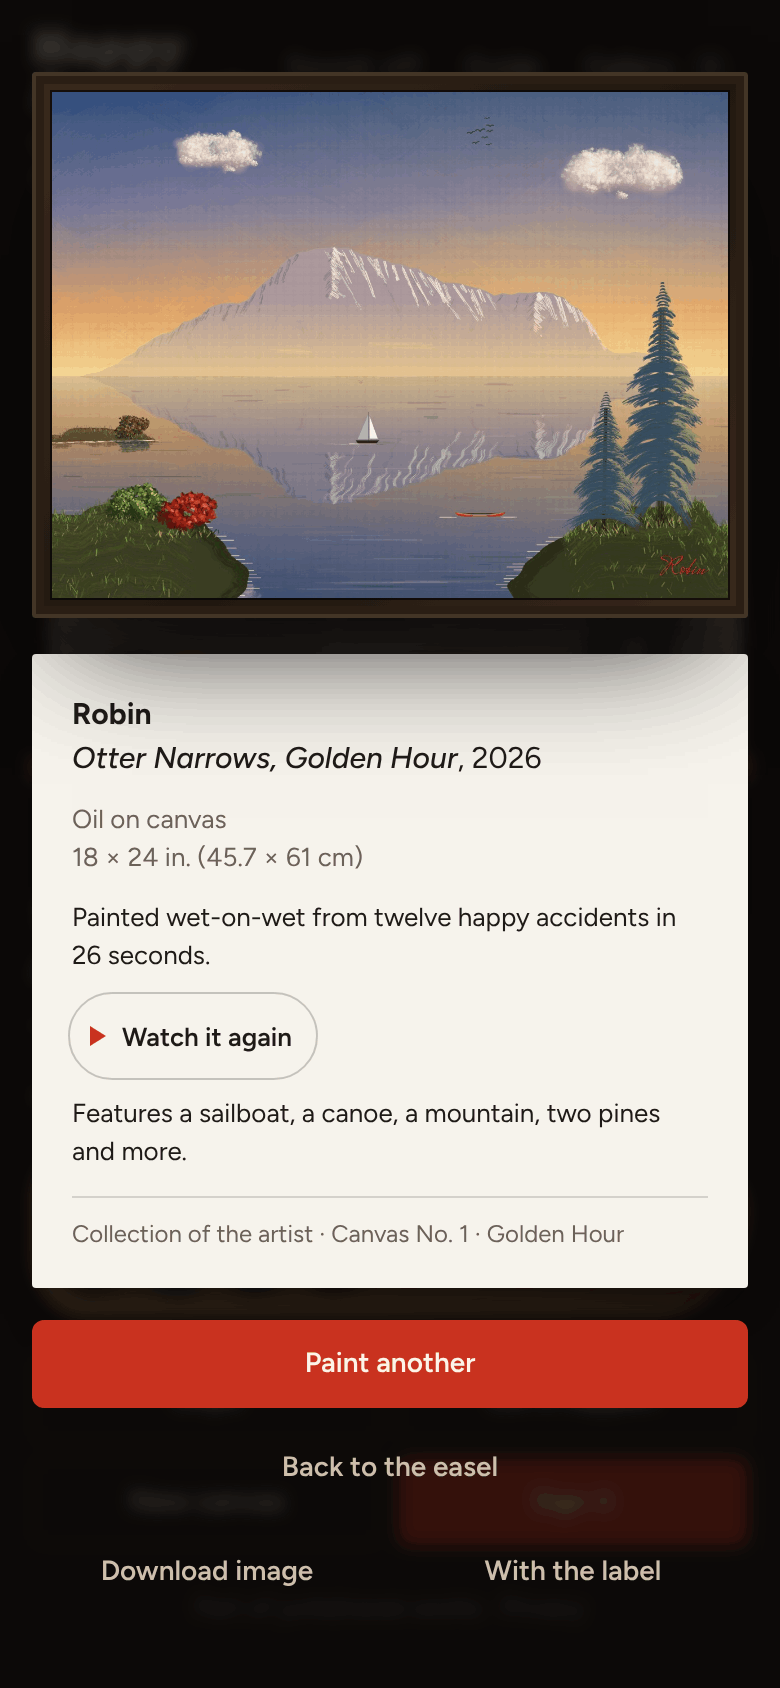
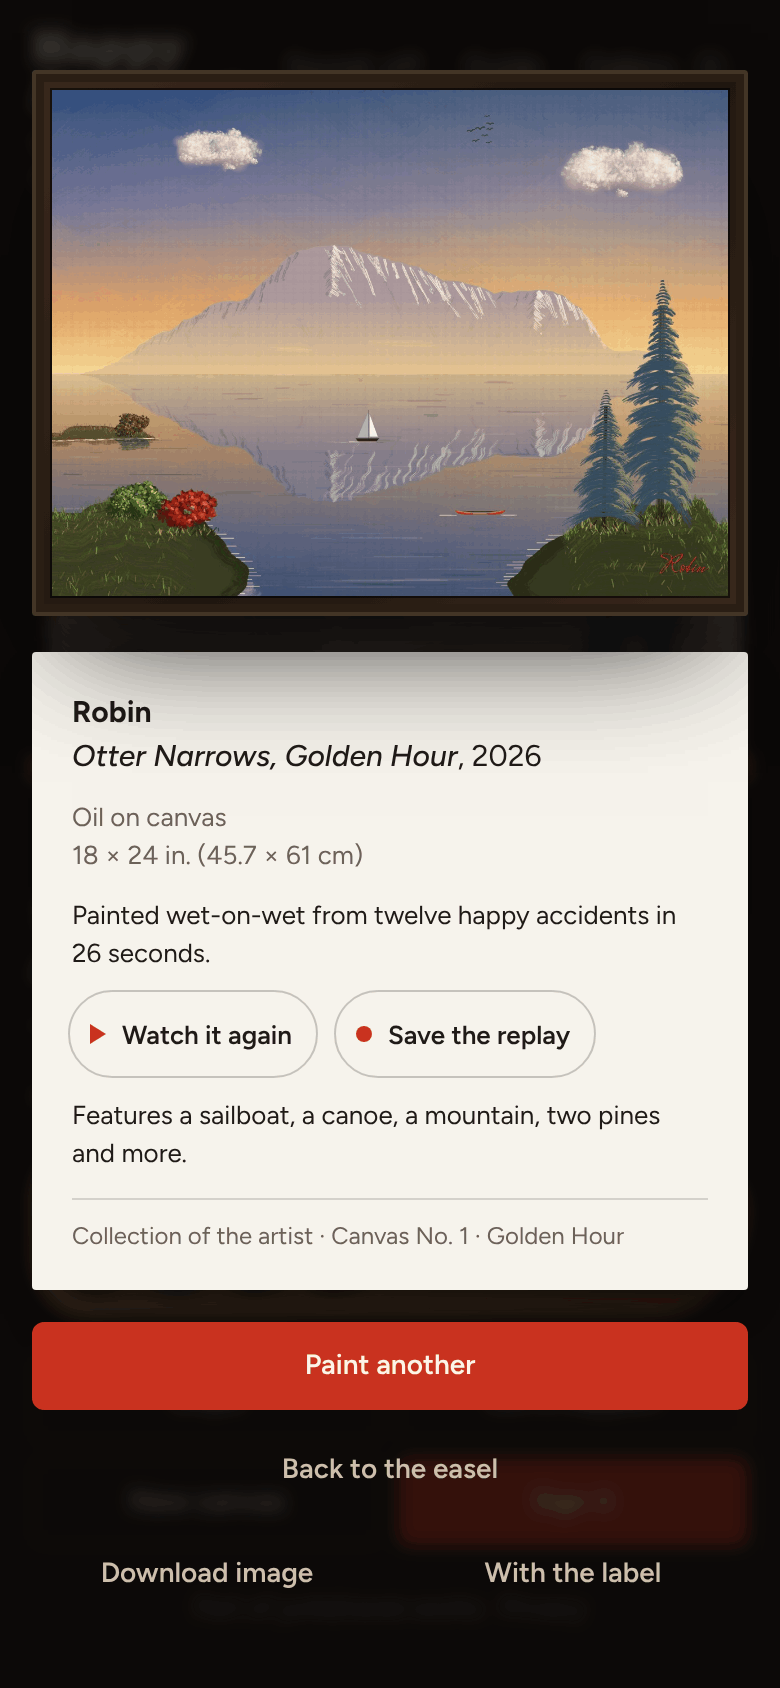
Add Save the replay: Watch it again as a short video to keep or send
Answers "Save the replay as a short video to share". Watch it again only played on the label, so there was no way to keep how a painting came about or send it to anyone. Now Save the replay sits beside it, in browsers that can record a canvas (MediaRecorder and canvas.captureStream; hidden where either is missing, and in a frame with no way to save a file). It plays the replay on the label and records it as it goes, a frame each time the screen is drawn, with the finished painting held a moment longer at the end: an MP4 where MediaRecorder.isTypeSupported says the browser can make one, a WebM where it can't. When it's done it downloads, named for the painting; on a phone or tablet that can share the file, the button becomes Save or share the video and a tap opens the share sheet (the browser only opens it for a tap it has just seen, and the video takes about ten seconds to make). A second press while it's being made, Stop, closing the label, New canvas or the page going out of sight stops it, keeps nothing, and stops and lets go of the recorder and the canvas's stream. The page test checks in Chromium that a second press and Stop leave nothing recording and save nothing, that a full run downloads one playable 560 by 420 MP4 of a few seconds named for the painting, that with sharing it waits for the tap and then shares that MP4, and that closing the label mid-way leaves nothing recording; blob links of the page's own no longer count as leaving the site. The README says so,
[…]

diff --git a/src/main.js b/src/main.js
@@ -5,7 +5,7 @@ import { pick, rand, gauss, slug } from './util.js';
 import * as sound from './sound.js';
 import { guardEdges } from './edge-guard.js';
 import { labelledPicture } from './label.js';
-import { play, FRAME_WIDTH } from './film.js';
+import { play, FRAME_WIDTH, videoType, videoExt, record } from './film.js';
 import { renderGuide, guideIntro, isKey } from './guide.js';
 
 const $ = (id) => document.getElementById(id);
@@ -50,9 +50,16 @@ const toolEl = $('tool');
 const hintEl = $('hint');
 const replayBtn = $('replayBtn');
 const filmCanvas = $('film');
+const videoBtn = $('videoBtn');
+// The kind of video Save the replay makes here, or null where the browser can't record the replay.
+const VIDEO = videoType();
 const calm = window.matchMedia('(prefers-reduced-motion: reduce)');
 // The replay playing on the label, if there is one (see Watch it again).
 let replay = null;
+// Save the replay's recording under way, a finished video waiting for its tap, and which go is the one going on now.
+let taping = null;
+let video = null;
+let videoTurn = 0;
 const inFrame = (() => {
   try {
     return window.self !== window.top;
@@ -679,6 +686,7 @@ const overlays = [$('signSheet'), $('placard'), $('gallery'), $('guide')];
 let returnFocus = null;
 function openOverlay(el, focusEl) {
   stopReplay();
+  dropVideo();
   returnFocus ??= document.activeElement;
   for (const o of overlays) o.hidden = o !== el;
   app.inert = true;
@@ -689,6 +697,7 @@ function openOverlay(el, focusEl) {
 }
 function closeOverlay(el, focusEl = returnFocus) {
   stopReplay();
+  dropVideo();
   el.hidden = true;
   app.inert = false;
   returnFocus = null;
@@ -883,6 +892,7 @@ function showPlacard(record, src, from = null, hung = null) {
   // Watch it again is on the label of the painting on the easel, signed just now (or opened again from Sign it with
   // nothing added), not on one opened from the wall.
   replayBtn.hidden = !(from !== 'wall' && studio.signed?.id === record.id && studio.film.frames.length > 1);
+  videoBtn.hidden = replayBtn.hidden || !VIDEO || (inFrame && !downloads);
   placardFrom = from === 'signing' && hung && !hung.kept ? 'unkept' : from;
   $('keepBtn').textContent = from === 'wall' ? 'Back to the wall' : 'Back to the easel';
   const img = $('placardImg');
@@ -972,28 +982,130 @@ function stopReplay() {
   filmCanvas.hidden = true;
   replayBtn.textContent = 'Watch it again';
   replayBtn.classList.remove('playing');
+  if (taping) dropVideo();
+}
+// Starts the replay on the label's frame; returns it (see film.js's play()), or null if there's nothing to play.
+function startReplay() {
+  const frames = studio.film.ready;
+  if (!frames.length) return null;
+  filmCanvas.width = FRAME_WIDTH;
+  // (Even, for the video: an MP4 can't be an odd number of pixels high.)
+  filmCanvas.height = 2 * Math.round((FRAME_WIDTH * studio.H) / studio.W / 2);
+  filmCanvas.hidden = false;
+  placeFilm();
+  replayBtn.textContent = 'Stop';
+  replayBtn.classList.add('playing');
+  replay = play(filmCanvas, frames, { start: studio.paper, W: studio.W, H: studio.H, reduced: calm.matches });
+  return replay;
 }
 replayBtn.addEventListener('click', async () => {
   if (replay) {
     stopReplay();
     return;
   }
-  const frames = studio.film.ready;
-  if (!frames.length) return;
-  filmCanvas.width = FRAME_WIDTH;
-  filmCanvas.height = Math.round((FRAME_WIDTH * studio.H) / studio.W);
-  filmCanvas.hidden = false;
-  placeFilm();
-  replayBtn.textContent = 'Stop';
-  replayBtn.classList.add('playing');
-  const run = play(filmCanvas, frames, { start: studio.paper, W: studio.W, H: studio.H, reduced: calm.matches });
-  replay = run;
+  const run = startReplay();
+  if (!run) return;
   await run.done;
   if (replay === run) stopReplay();
 });
 window.addEventListener('resize', () => {
   if (replay) placeFilm();
 });
+
+// Save the replay records the replay as it plays on the label (about ten seconds) and saves it as a video: on a phone
+// or tablet that can share it, a second tap on Save or share the video opens the share sheet (the browser only opens it
+// for a tap it has just seen, and the video takes longer than that to make); elsewhere it downloads when it's done.
+// Pressed while it's being made, or by Stop, or by anything that closes the label, it stops and nothing is kept.
+function dropVideo() {
+  videoTurn++;
+  taping?.cancel();
+  taping = null;
+  video = null;
+  videoBtn.textContent = 'Save the replay';
+  videoBtn.classList.remove('playing');
+  videoBtn.removeAttribute('aria-live');
+}
+videoBtn.addEventListener('click', async () => {
+  if (video) {
+    const { file, title } = video;
+    dropVideo();
+    saveVideo(file, title);
+    return;
+  }
+  if (taping) {
+    stopReplay();
+    return;
+  }
+  stopReplay();
+  dropVideo();
+  const record0 = onShow;
+  const run = startReplay();
+  if (!run) return;
+  let rec;
+  try {
+    rec = record(filmCanvas, VIDEO);
+  } catch {
+    stopReplay();
+    videoBtn.hidden = true;
+    return;
+  }
+  const turn = videoTurn;
+  taping = rec;
+  videoBtn.textContent = 'Making the video…';
+  videoBtn.classList.add('playing');
+  await run.done;
+  // The finished painting stays a moment longer at the end of the video than it does on the label.
+  if (turn === videoTurn) await new Promise((r) => setTimeout(r, 800));
+  if (turn !== videoTurn) return;
+  taping = null;
+  const blob = await rec.finish();
+  if (replay === run) stopReplay();
+  if (turn !== videoTurn || onShow !== record0 || $('placard').hidden) return;
+  dropVideo();
+  let file = null;
+  try {
+    if (blob) file = new File([blob], `${slug(record0.title)}.${videoExt(blob.type)}`, { type: blob.type });
+  } catch {
+    /* no File */
+  }
+  if (!file) {
+    videoBtn.hidden = true;
+    return;
+  }
+  if (!downloads && shareable(file)) {
+    video = { file, title: record0.title };
+    videoBtn.textContent = 'Save or share the video';
+    videoBtn.setAttribute('aria-live', 'polite');
+    return;
+  }
+  saveVideo(file, record0.title);
+});
+// While it's being made, the video stops if the page goes out of sight (it would hold still for as long as it's away).
+document.addEventListener('visibilitychange', () => {
+  if (document.hidden && taping) stopReplay();
+});
+
+async function saveVideo(file, title) {
+  if (downloads) {
+    try {
+      await downloads.save({ filename: file.name, data: new Uint8Array(await file.arrayBuffer()) });
+    } catch (err) {
+      if (err?.code !== 'declined' && err?.code !== 'rate_limited') videoBtn.hidden = true;
+    }
+    return;
+  }
+  if (shareable(file)) {
+    try {
+      await navigator.share({ files: [file], title });
+      return;
+    } catch (err) {
+      if (err?.name === 'AbortError') return;
+    }
+  }
+  const url = URL.createObjectURL(file);
+  download(url, file.name);
+  setTimeout(() => URL.revokeObjectURL(url), 60000);
+}
 
 // Take it down asks first: the first tap turns it into "Take it down?" for three seconds, and only a tap on that takes
 // the painting off the wall (a double-click is one tap, as for Start over?). Then it's back to the wall, where it was.

diff --git a/src/film.js b/src/film.js
@@ -189,3 +189,90 @@ export function play(out, frames, { start, W, H, reduced = false }) {
     },
   };
 }
+
+// Save the replay: the replay recorded as it plays on the label, as a short video to keep or send. Only where the
+// browser can record a canvas (MediaRecorder and captureStream). MP4 where the browser can make one (Safari, and Chrome
+// from version 126), since every phone's photos open that; WebM, which some don't, only where it can't.
+const VIDEO_TYPES = ['video/mp4;codecs=avc1.42E01E', 'video/mp4;codecs=avc1', 'video/mp4', 'video/webm;codecs=vp9', 'video/webm;codecs=vp8', 'video/webm'];
+
+// The kind of video this browser can record a canvas as, or null where it can't.
+export function videoType() {
+  try {
+    if (typeof MediaRecorder === 'undefined' || typeof HTMLCanvasElement.prototype.captureStream !== 'function') return null;
+    return VIDEO_TYPES.find((t) => MediaRecorder.isTypeSupported(t)) || null;
+  } catch {
+    return null;
+  }
+}
+
+export const videoExt = (type) => (/^video\/mp4/.test(type) ? 'mp4' : 'webm');
+
+// Records what's painted on canvas, a frame each time the screen is drawn, until finish() (which gives the video as a
+// Blob, or null if nothing came of it) or cancel() (which throws it away). Either way the recorder and the canvas's
+// stream are stopped and let go, and both are safe to call again.
+export function record(canvas, type) {
+  let stream = canvas.captureStream(0);
+  let track = stream.getVideoTracks()[0];
+  // A frame on every redraw where the browser lets the page ask for one; elsewhere 30 a second, as it changes.
+  if (typeof track?.requestFrame !== 'function') {
+    stream.getTracks().forEach((t) => t.stop());
+    stream = canvas.captureStream(30);
+    track = null;
+  }
+  const release = () => stream.getTracks().forEach((t) => t.stop());
+  let rec;
+  try {
+    rec = new MediaRecorder(stream, { mimeType: type, videoBitsPerSecond: 2500000 });
+  } catch (err) {
+    release();
+    throw err;
+  }
+  const chunks = [];
+  rec.ondataavailable = (e) => e.data?.size && chunks.push(e.data);
+  let raf = 0;
+  const tick = () => {
+    track?.requestFrame();
+    raf = requestAnimationFrame(tick);
+  };
+  rec.start(500);
+  tick();
+  let closed = false;
+  const close = () => {
+    closed = true;
+    cancelAnimationFrame(raf);
+  };
+  return {
+    recorder: rec,
+    stream,
+    finish() {
+      if (closed) return Promise.resolve(null);
+      close();
+      return new Promise((resolve) => {
+        const done = () => {
+          release();
+          resolve(chunks.length ? new Blob(chunks, { type: (rec.mimeType || type).split(';')[0] }) : null);
+        };
+        rec.onstop = done;
+        rec.onerror = done;
+        try {
+          rec.stop();
+        } catch {
+          done();
+        }
+      });
+    },
+    cancel() {
+      if (closed) return;
+      close();
+      rec.ondataavailable = null;
+      rec.onstop = null;
+      try {
+        if (rec.state !== 'inactive') rec.stop();
+      } catch {
+        /* already stopped */
+      }
+      release();
+      chunks.length = 0;
+    },
+  };
+}

diff --git a/styles.css b/styles.css
@@ -1059,7 +1059,14 @@ kbd {
   display: block;
 }
 
-/* Watch it again, on the label itself, under what the painting was made from, with a little red play mark. */
+/* Watch it again, on the label itself, under what the painting was made from, with a little red play mark, and Save the
+   replay beside it (under it, when there isn't room) with a red dot. */
+.label .replays {
+  display: flex;
+  flex-wrap: wrap;
+  column-gap: 8px;
+}
+
 .label .replay {
   display: flex;
   min-height: 44px;
@@ -1090,6 +1097,29 @@ kbd {
   height: 8px;
   border: 0;
   background: var(--red);
+}
+
+.label .replay + .replay {
+  margin-left: 0;
+}
+
+.label .replay.video::before {
+  width: 8px;
+  height: 8px;
+  border: 0;
+  border-radius: 50%;
+  background: var(--red);
+}
+
+/* While the video is being made, its dot blinks, like a camera's. */
+.label .replay.video.playing::before {
+  animation: taping 1.2s steps(2, jump-none) infinite;
+}
+
+@keyframes taping {
+  to {
+    opacity: 0.2;
+  }
 }
 
 .label-credit {
@@ -1196,8 +1226,12 @@ kbd {
     font-size: 11px;
   }
 
-  /* Here Watch it again runs on after what it was made from, like a link, with no line of its own; it's still as tall
-     as a finger, without pushing the lines apart. */
+  /* Here Watch it again (and Save the replay) runs on after what it was made from, like a link, with no line of its
+     own; it's still as tall as a finger, without pushing the lines apart. */
+  .label .replays {
+    display: inline;
+  }
+
   .label .replay {
     display: inline-block;
     min-height: 0;
@@ -1218,6 +1252,10 @@ kbd {
   .label .replay::before {
     display: inline-block;
     margin-right: 5px;
+  }
+
+  .label .replay + .replay {
+    margin-left: 4px;
   }
 
   .placard-actions {

diff --git a/index.html b/index.html
@@ -101,7 +101,7 @@
         <p class="label-artist"><bdi id="plArtist">Anonymous</bdi></p>
         <p class="label-title"><cite id="plTitle" dir="auto">Untitled</cite>, <span id="plYear">2026</span></p>
         <p class="label-medium">Oil on canvas<br>18 × 24 in. (45.7 × 61 cm)</p>
-        <p class="label-note"><span id="plNote"></span> <button type="button" class="replay" id="replayBtn" hidden>Watch it again</button></p>
+        <p class="label-note"><span id="plNote"></span> <span class="replays"><button type="button" class="replay" id="replayBtn" hidden>Watch it again</button> <button type="button" class="replay video" id="videoBtn" hidden>Save the replay</button></span></p>
         <p class="label-note" id="plFeatures"></p>
         <p class="label-credit" id="plCredit">Collection of the artist</p>
       </aside>

diff --git a/sw.js b/sw.js
@@ -9,7 +9,7 @@
 // fingerprint of every file in SHELL: change any of them and test/e2e.mjs fails until FILES is changed to match (it
 // says what to), which changes this file, so every copy is made whole again at once.
 const CACHE = 'happy-accidents-v7';
-const FILES = '30e05544'; // test/e2e.mjs checks this
+const FILES = 'c381d915'; // test/e2e.mjs checks this
 const SHELL = [
   './', 'index.html', 'styles.css', 'manifest.webmanifest', 'icon.svg',
   'fonts/caprasimo.woff2', 'fonts/figtree.woff2', 'fonts/figtree-italic.woff2', 'fonts/mrs-saint-delafield.woff2',

diff --git a/README.md b/README.md
@@ -9,7 +9,7 @@
   &nbsp;
   <img src="docs/phone-splat.png" alt="The same painting with a glossy blue splat of paint just landed in the sky, droplets flung off to one side, still wet" width="250">
   &nbsp;
-  <img src="docs/phone-signed.png" alt="A signed golden-hour lake painting in a dark wooden frame above its museum label: the artist Robin, a made-up title, oil on canvas, 18 by 24 inches, how many happy accidents it took, and a Watch it again button" width="250">
+  <img src="docs/phone-signed.png" alt="A signed golden-hour lake painting in a dark wooden frame above its museum label: the artist Robin, a made-up title, oil on canvas, 18 by 24 inches, how many happy accidents it took, and Watch it again and Save the replay buttons" width="250">
 </p>
 
 <p align="center">
@@ -27,7 +27,7 @@
 - **Oops** (<kbd>Space</kbd>) makes an accident you didn't. **Let it happen** (<kbd>A</kbd>) keeps accidents coming on their own until the painting feels done, and then Sign it gets a soft breathing dot until you sign, start over or throw more paint. They use the paint you've loaded and aim it somewhere it makes sense; on Surprise me, they pick a paint that suits where they're aiming and the mood (no snowy pines in a mood without snow, more reds and yellows in Autumn Blaze). Now and then they aim for a rock or an island, stars or an aurora at night, or the cabin.
 - **New canvas** (<kbd>N</kbd>) starts over, and asks first if there's paint that isn't up on your wall yet. **Sound** (<kbd>M</kbd>) is off until you turn it on: the damp pat of a splat, the swish of a brush, the scratch of a pen as you sign and a knock of wood as the label goes up.
 - **Every canvas gets a mood:** Golden Hour, Winter Hush, Northern Night, Autumn Blaze, Misty Morning, Violet Dusk or Spring Thaw. The lake reflects everything above the horizon, and the trees, bushes and cabin standing right at its edge or out on an island.
-- **Sign it** (<kbd>S</kbd>) to put your name on it in red. You get a museum label with a made-up title, and the painting goes up on your gallery wall (<kbd>G</kbd>). **Watch it again** on that label plays how the painting came about, in about ten seconds: the sky's wash, then each thing coming in where it was painted, in the order it went on, and your signature last. Paint on it some more and sign it again, and the new version takes the earlier one's place on the wall. From the label you can save the picture, or on a phone share it (to Photos, or to a friend), on its own or with the label: the painting framed on the gallery wall with its museum label under it.
+- **Sign it** (<kbd>S</kbd>) to put your name on it in red. You get a museum label with a made-up title, and the painting goes up on your gallery wall (<kbd>G</kbd>). **Watch it again** on that label plays how the painting came about, in about ten seconds: the sky's wash, then each thing coming in where it was painted, in the order it went on, and your signature last. **Save the replay**, beside it, records those ten seconds as a video to keep or send: on a phone it goes to the share sheet (to Photos, or to a friend) when it's ready, elsewhere it downloads. It's an MP4 where the browser can make one and a WebM where it can't, and the button only shows in browsers that can record it. Paint on it some more and sign it again, and the new version takes the earlier one's place on the wall. From the label you can save the picture, or on a phone share it (to Photos, or to a friend), on its own or with the label: the painting framed on the gallery wall with its museum label under it.
 - **Guide** opens the field guide, *What paint does*: the two tables below as a collection to fill in. Everything in them starts as a blank outline and is named the first time your own paint makes it in this browser (Oops and Let it happen don't count), so the rules show up as you find them. It opens from the gallery wall too.
 - No account and no server. The gallery wall keeps your 12 newest signed paintings, in your browser; when a signing takes the oldest down, its label says which one came down. Open a painting on the wall and its label has Take it down, which asks first. It works offline and installs to a phone's home screen.
 
@@ -90,7 +90,7 @@ It's Canvas 2D with no framework and no image files: everything on the canvas is
 - `src/paint/`: one painter per thing, plus `react.js` for changes to things already there. Each returns a bounding box, a depth and a list of small drawing steps played back over a second or two, so you watch it being painted.
 - `src/studio.js`: the scene. Every element paints into its own layer, composited back to front by depth. The finished layers are kept put together as a few ready-made pictures, and each frame draws again only the part of the canvas that changed, so a long painting draws about as fast as a short one. The lake is a mirrored, rippled copy of everything above the horizon, and a tree, a bush or the cabin standing right at the water gets a reflection of its own, a layer just behind it that paint goes straight through.
 - `src/guide.js`: the field guide: the two rules tables above as a list of everything paint can do, which of them a step of a plan made once it's painted (`decide.js` marks each plan with the cell of the tables it comes from), and the sheet that shows them.
-- `src/film.js`: Watch it again. A small picture of the canvas each time something finishes painting (60 at most: a long canvas drops every second one and keeps fewer from then on, so they stay spread over all of it), kept in memory for the canvas on the easel only, and the player that wipes them in on the label's frame.
+- `src/film.js`: Watch it again. A small picture of the canvas each time something finishes painting (60 at most: a long canvas drops every second one and keeps fewer from then on, so they stay spread over all of it), kept in memory for the canvas on the easel only, the player that wipes them in on the label's frame, and Save the replay's recorder (MediaRecorder, from the canvas the replay plays on).
 - `src/label.js`: the painting framed on the gallery wall with its museum label under it, drawn as one picture to save or share.
 - `src/words.js`: what the painter says, the brushes and paints they name, and titles like *Cabin at Otter Cove*.
 - `src/sound.js`: optional sounds, made with Web Audio from soft pink noise: the damp pat of a splat on canvas, the swish of a brush, a pen's scratch for the signature and a knock of wood for the label (off by default).
